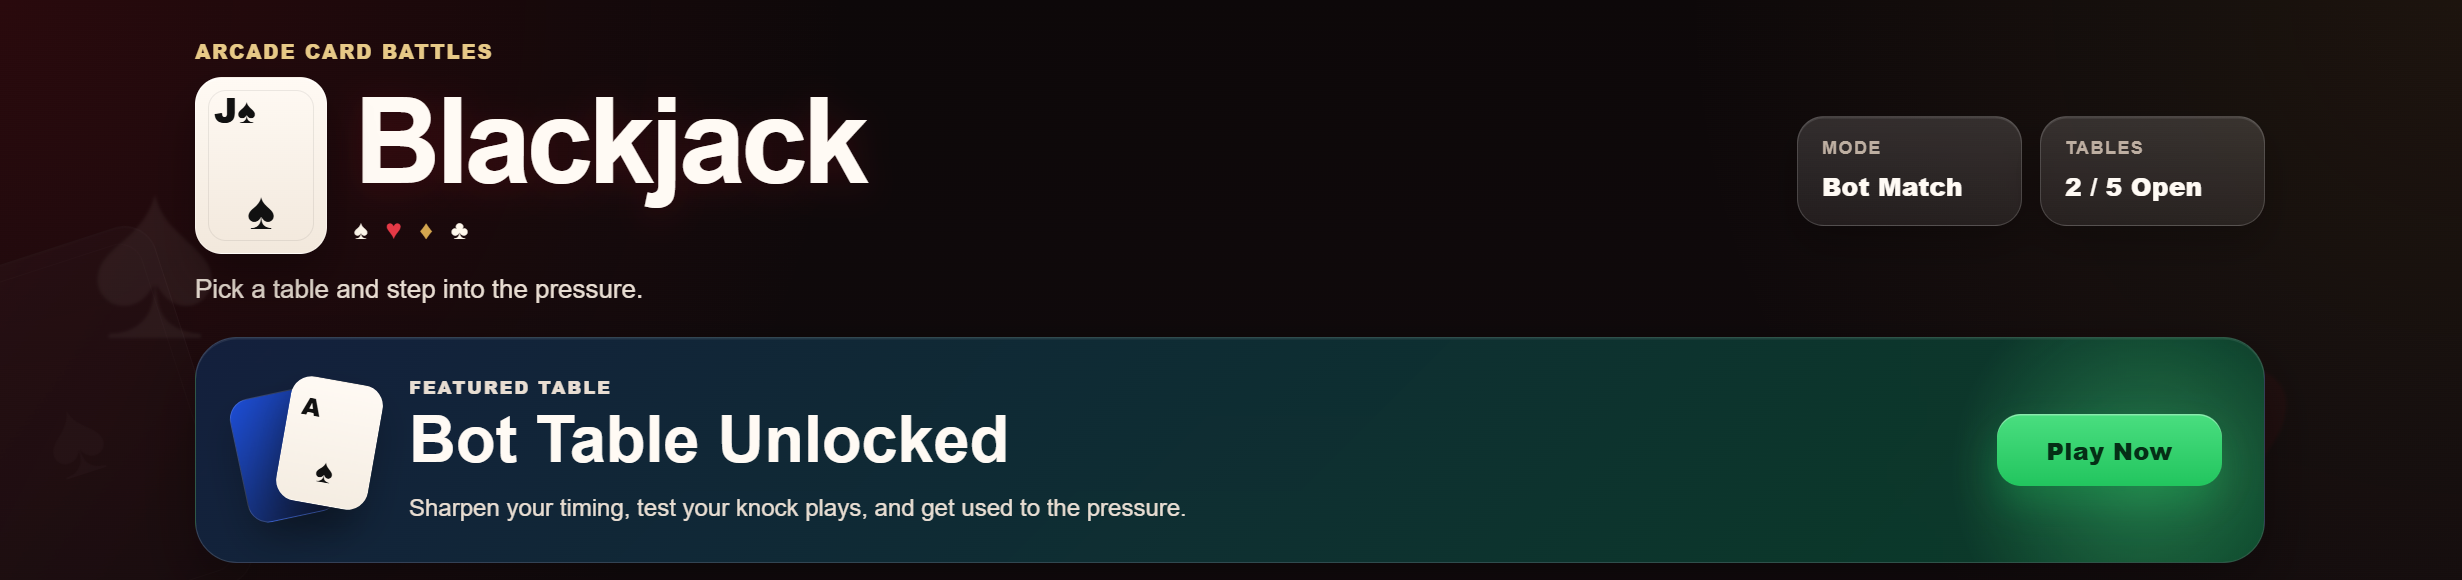
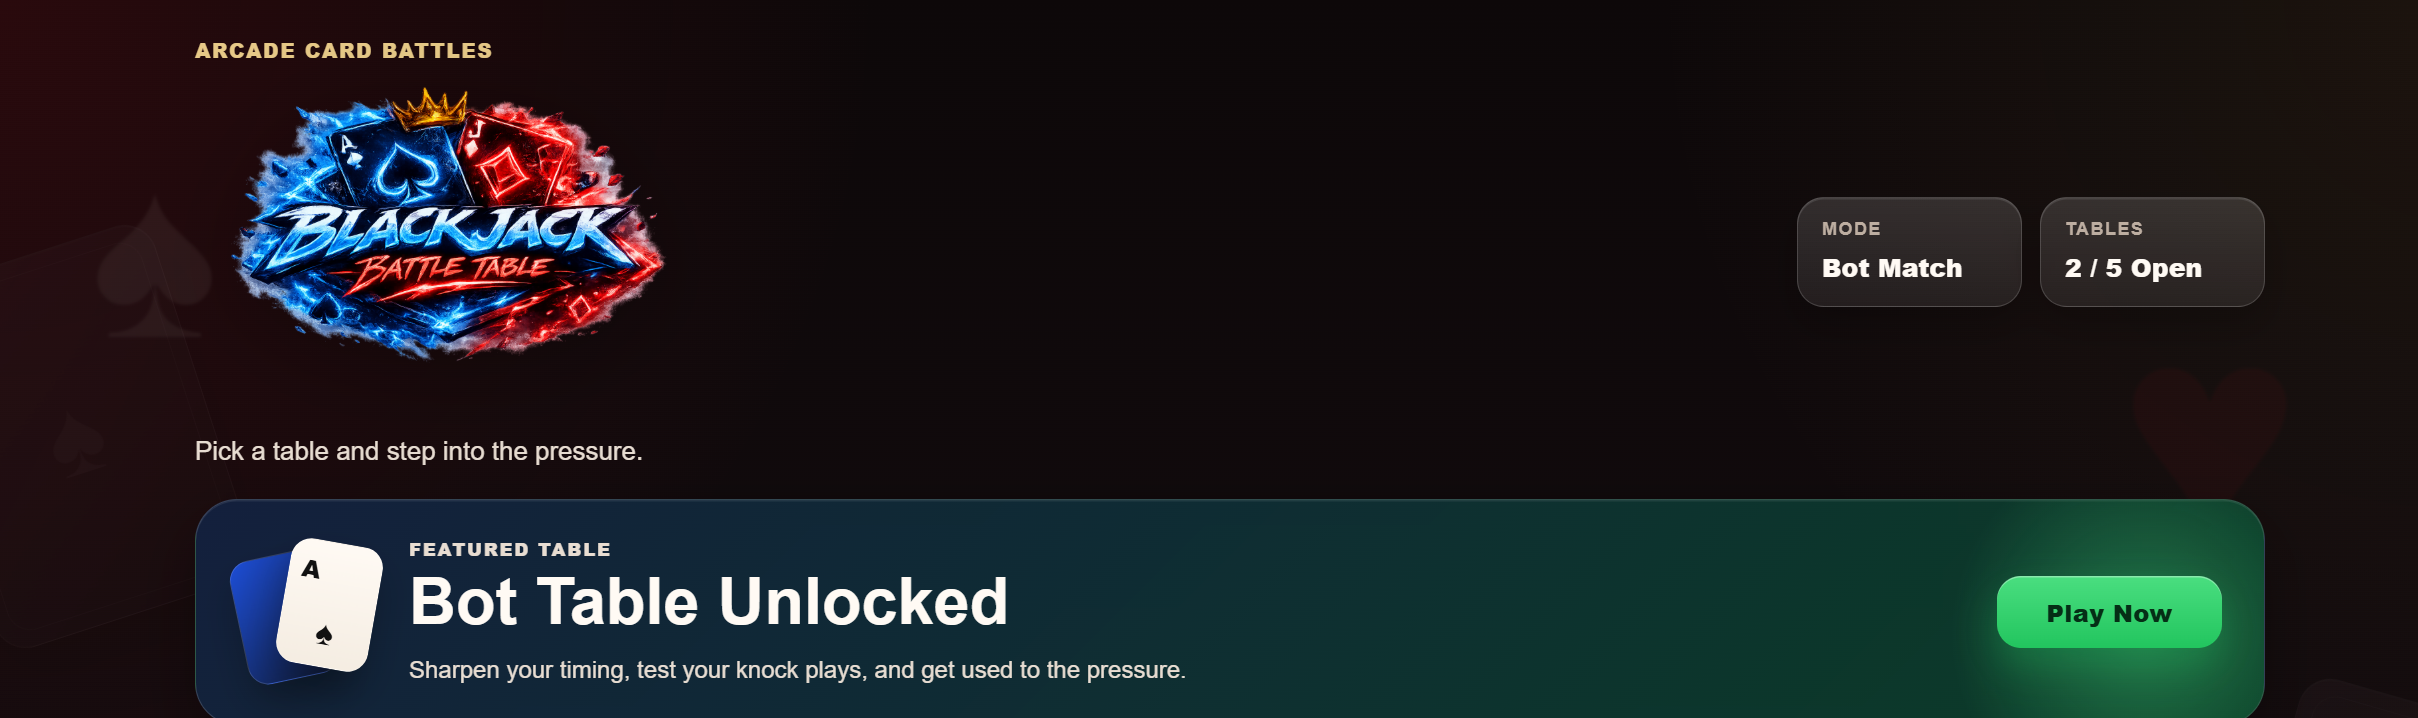
Add files via upload

Changed region(s): [[0.062, 0.5586, 0.9615, 1.0], [0.062, 0.0621, 0.3722, 0.5276], [0.7134, 0.1862, 0.9615, 0.4034]]

diff --git a/index.html b/index.html
@@ -3,6 +3,8 @@
 <head>
   <meta charset="UTF-8" />
   <meta name="viewport" content="width=device-width, initial-scale=1.0" />
+  <link rel="icon" href="./assets/images/favicon.png" />
+
   <title>Blackjack Game</title>
 
   <link rel="stylesheet" href="./css/base.css" />
@@ -26,21 +28,12 @@
       <div class="brand-block">
         <p class="brand-kicker">Arcade Card Battles</p>
 
-        <div class="brand-title-row">
-          <div class="brand-emblem">
-            <span>J♠</span>
-            <span>♠</span>
-          </div>
-
-          <div>
-            <h1>Blackjack</h1>
-            <div class="brand-suits">
-              <span>♠</span>
-              <span>♥</span>
-              <span>♦</span>
-              <span>♣</span>
-            </div>
-          </div>
+        <div class="brand-title-row brand-title-row--logo">
+          <img
+            class="brand-logo"
+            src="./assets/images/logo.png"
+            alt="Blackjack Battle Table logo"
+          />
         </div>
 
         <p class="brand-subtitle">Pick a table and step into the pressure.</p>

diff --git a/css/menu.css b/css/menu.css
@@ -593,3 +593,21 @@
     font-size: 2.7rem;
   }
 }
+
+.brand-title-row--logo {
+  display: block;
+}
+
+.brand-logo {
+  display: block;
+  width: min(340px, 100%);
+  max-width: 100%;
+  height: auto;
+  filter: drop-shadow(0 10px 28px rgba(0, 0, 0, 0.28));
+}
+
+@media (max-width: 640px) {
+  .brand-logo {
+    width: min(260px, 100%);
+  }
+}

diff --git a/private-table.html b/private-table.html
@@ -3,6 +3,8 @@
 <head>
   <meta charset="UTF-8" />
   <meta name="viewport" content="width=device-width, initial-scale=1.0" />
+  <link rel="icon" href="./assets/images/favicon.png" />
+
   <title>Private Table | Blackjack Game</title>
 
   <link rel="stylesheet" href="./css/base.css" />

diff --git a/bot-table.html b/bot-table.html
@@ -3,6 +3,8 @@
 <head>
   <meta charset="UTF-8" />
   <meta name="viewport" content="width=device-width, initial-scale=1.0" />
+  <link rel="icon" href="./assets/images/favicon.png" />
+
   <title>Bot Table | Blackjack Game</title>
 
   <link rel="stylesheet" href="./css/base.css" />
